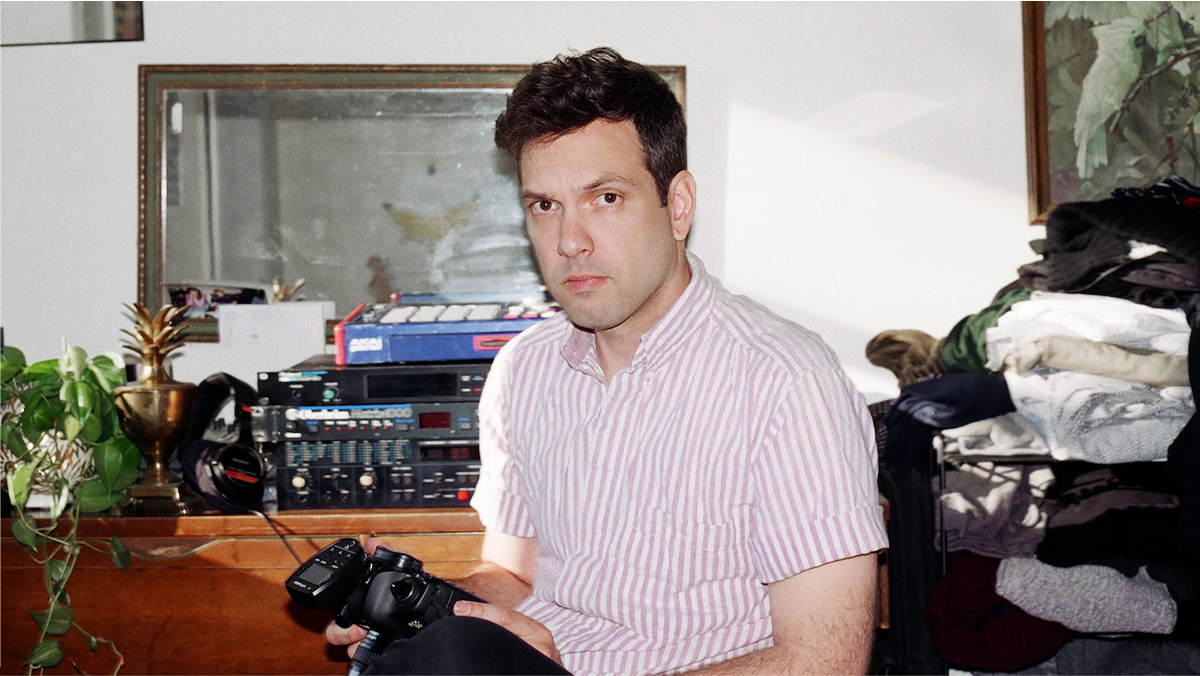
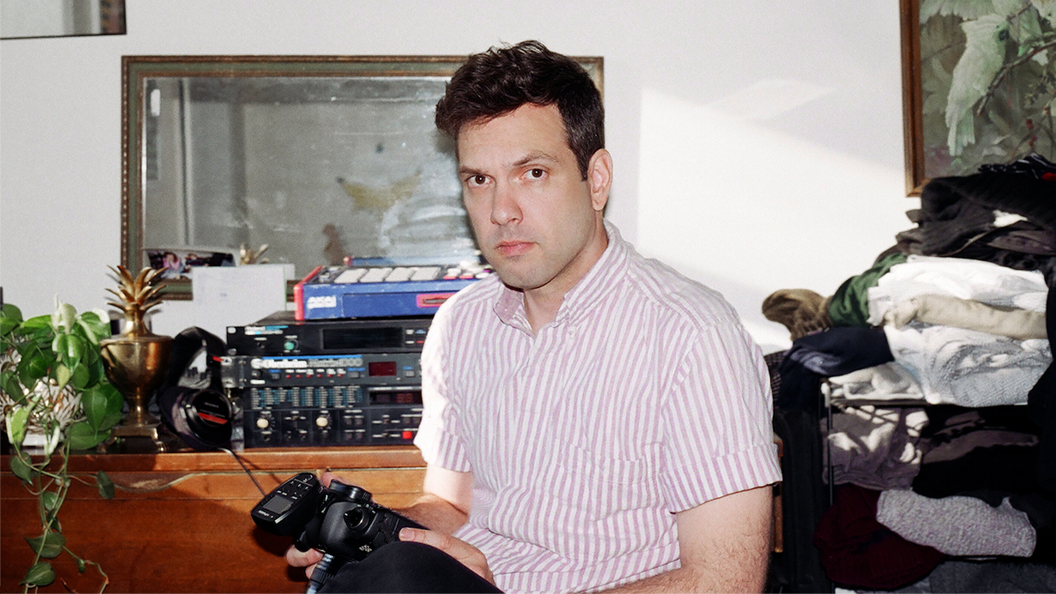
changed fonts from em to px and change overlay background color

diff --git a/index.html b/index.html
@@ -11,32 +11,32 @@
     <div id="myNav" class="overlay">
 
       <!-- Button to close the overlay navigation -->
-      <a href="javascript:void(0)" class="closebtn" onclick="closeNav()">&#10005;</a>
+        <a href="javascript:void(0)" class="closebtn" onclick="closeNav()">&#10005;</a>
 
       <!-- Overlay content -->
-      <div class="overlay-content">
-        <a href="#">ABOUT</a>
-        <a href="#">MEDIA</a>
-        <a href="#">TOUR DATES</a>
-        <a href="#">MERCH</a>
-        <a href="#">DISCOGRAPHY</a>
+        <div class="overlay-content">
+          <a href="#">ABOUT</a>
+          <a href="#">MEDIA</a>
+          <a href="#">TOUR DATES</a>
+          <a href="#">MERCH</a>
+          <a href="#">DISCOGRAPHY</a>
+        </div>
       </div>
 
+        <div class="hamburger">
+          </div><span style="font-size:60px;cursor:pointer" onclick="openNav()">&#9868;</span>
+        </div>
 
-      </div>
+      <h1>BLACK MARBLE</h1>
 
-      <span style="font-size:60px;cursor:pointer" onclick="openNav()">&#9776;</span>
-
-      <h1>Black Marble</h1>
-
-      <div class="center-image">
+      <div class="home-image">
       <img src="./assets/images/home-pic.png" alt="Picture of Chris Stewart">
       </div>
 
 
 
 
-  <!--Open when someone clicks on the span element-->  
+  <!--Open when someone clicks on the span element-->
   <script> function openNav() {
   document.getElementById("myNav").style.width = "100%";
 }

diff --git a/assets/stylesheets/stylesheet.css b/assets/stylesheets/stylesheet.css
@@ -12,21 +12,24 @@ h1, h2, h3, h4, .overlay-content  {
 }
 
 h1 {
-font-size: 9.1666875em;
+font-size: 100px;
 text-align: center;
+line-height: 0%;
+text-transform: uppercase;
   }
 
-h2 {
-  font-size: 6.25em;
+h2, .overlay-content {
+  font-size: 65px;
   text-align: center;
 }
 
-h3, .overlay-content {
-  font-size: 4.1666875em;
+h3,  {
+  font-size: 50px;
+  text-transform: uppercase;
 }
 
 h4 {
-  font-size: 2.0833125em;
+  font-size: 25px;
 }
 
   p, li, th, td  {
@@ -34,9 +37,12 @@ h4 {
   font-family: benton-sans, sans-serif;
   font-weight: 700;
   font-style: normal;
-  font-size: 2.0833125em;
+  font-size: 25px;
 }
 
+.hamburger {
+  margin: 0px
+}
 
 /* The Overlay (background) */
 .overlay {
@@ -48,7 +54,6 @@ h4 {
   left: 0;
   top: 0;
   background-color: rgb(0,0,0); /* Black fallback color */
-  background-color: rgba(0,0,0, 0.9); /* Black w/opacity */
   overflow-x: hidden; /* Disable horizontal scroll */
   transition: 0.3s; /* height or width depends on reveal) */
 }
@@ -96,7 +101,9 @@ When the height of the screen is less than 450 pixels, change the font-size of t
 }*/
 
 
-.center-image {
+.home-image {
   display: block;
-  margin: auto;
+  margin-right: auto;
+  margin-left: auto;
+  width: 100%;
 }
